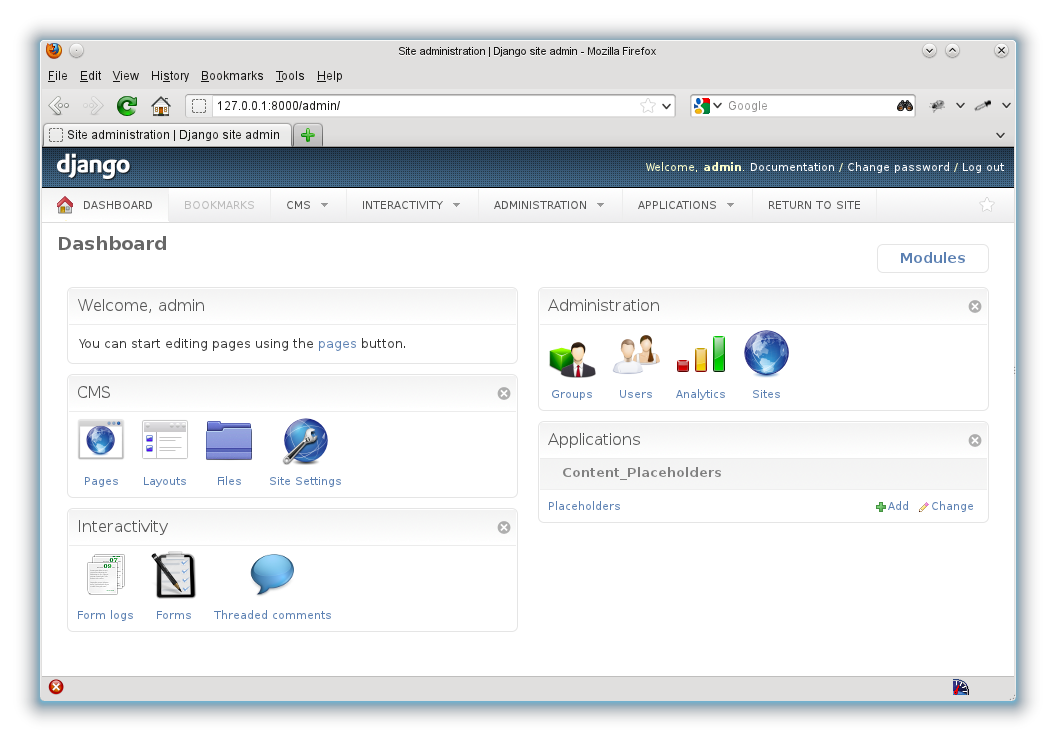
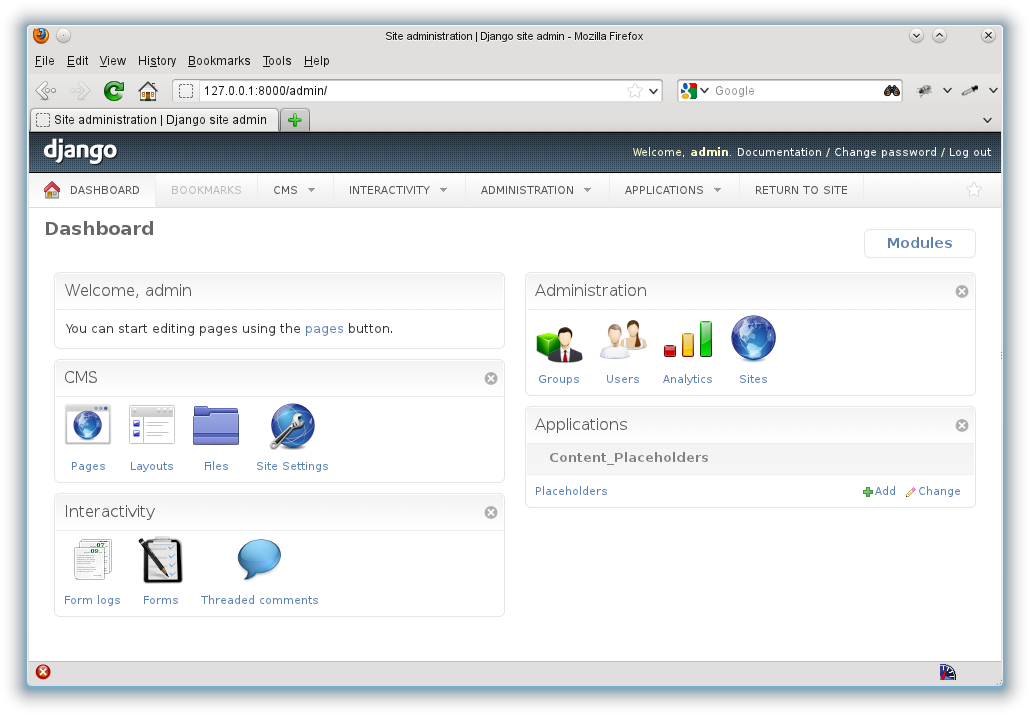
Reduce width/height of dashboard.png

diff --git a/README.rst b/README.rst
@@ -17,8 +17,8 @@ Screenshot
 ==========
 
 .. image:: https://github.com/edoburu/django-fluent-dashboard/raw/master/docs/images/dashboard.png
-   :width: 1056px
-   :height: 741px
+   :width: 1030px
+   :height: 715px
    :alt: django-fluent-dashboard preview
 
 Installation

diff --git a/docs/index.rst b/docs/index.rst
@@ -28,8 +28,8 @@ Preview
 =======
 
 .. image:: images/dashboard.png
-   :width: 1056px
-   :height: 741px
+   :width: 1030px
+   :height: 715px
    :alt: django-fluent-dashboard preview
 
 Icon credits
